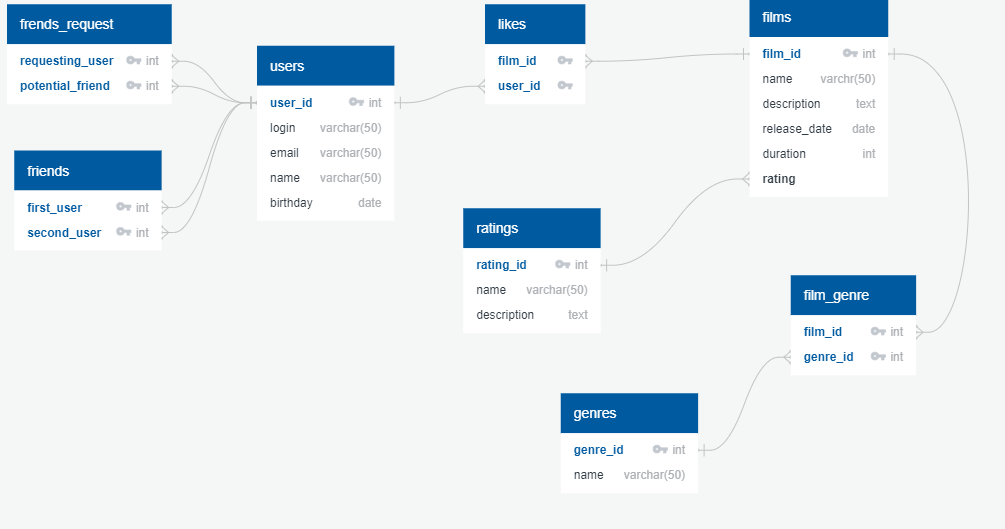
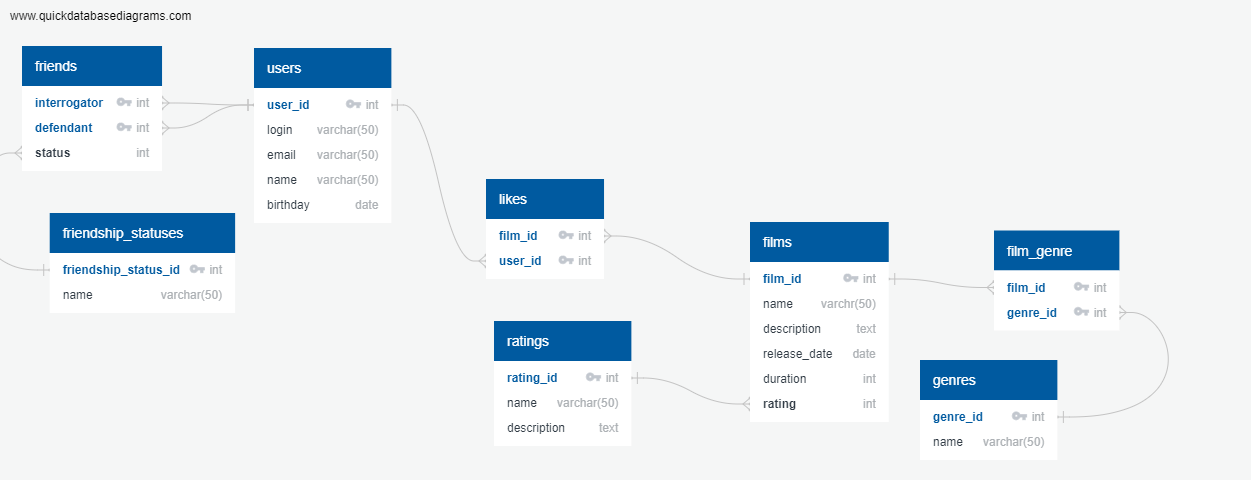
refactor: изменить структуру базы данных

diff --git a/README.md b/README.md
@@ -21,34 +21,44 @@
 
 # Примеры запросов к БД
 ## Поиск друзей пользователя с id =1  
-SELECT  
-CASE WHEN first_user = 1 THEN second_user  
-WHEN second_user = 1 THEN first_user  
-END AS friends  
-FROM friends  
-WHERE first_user = 1 OR second_user = 1  
+SELECT
+CASE WHEN interrogator = 1 THEN defendant
+WHEN defendant = 1 THEN interrogator
+END AS friends
+FROM friends AS f
+JOIN friendship_statuses AS s ON f.status = s.id
+WHERE (f.interrogator = 1 OR f.defendant = 1) AND s.name = 'accept'
+
 ---
 ## Общие друзья пользователей с id = 1,4  
 SELECT  
-f_F.friends  
-FROM (SELECT  
-CASE WHEN first_user = 1 THEN second_user  
-WHEN second_user = 1 THEN first_user  
-END AS friends  
-FROM friends  
-WHERE first_user = 1 OR second_user = 1) AS f_f  
-LEFT JOIN friends AS f ON (f.first_user = f_f.friends OR f.second_user = f_f.friends)  
-WHERE f.first_user = 4 OR f.second_user = 4 
+SELECT
+f_f.friends
+FROM (SELECT
+CASE WHEN interrogator = 1 THEN defendant
+WHEN defendant = 1 THEN interrogator
+END AS friends
+FROM friends AS f
+JOIN friendship_statuses AS s ON f.status = s.id
+WHERE (f.interrogator = 1 OR f.defendant = 1) AND s.name = 'accept') AS f_f
+LEFT JOIN friends AS f ON (f.interrogator = f_f.friends OR f.defendant = f_f.friends)
+LEFT JOIN friendship_statuses AS s ON f.status = s.id
+WHERE (f.interrogator = 4 OR f.defendant = 4)  AND s.name = 'accept'
+
 ---
 ## Исходящие заявки в друзья от пользователя 1  
-SELECT potential_friend  
-FROM friends_request  
-WHERE requesting_user = 1  
+SELECT f.defendant
+FROM friends AS f
+JOIN friendship_statuses AS s ON f.status=s.id
+WHERE f.interrogator = 1 AND s.name = 'request'
+
 ---
 ## Входящие заявки в друзья пользователя с id = 3  
-SELECT requesting_user  
-FROM friends_request  
-WHERE potential_friend = 3  
+SELECT f.interrogator
+FROM friends AS f
+JOIN friendship_statuses AS s ON f.status=s.id
+WHERE f.defendant = 4 AND s.name = 'request'
+
 ---
 ## Топ 10 фильмов по лайкам  
 SELECT film_id  
